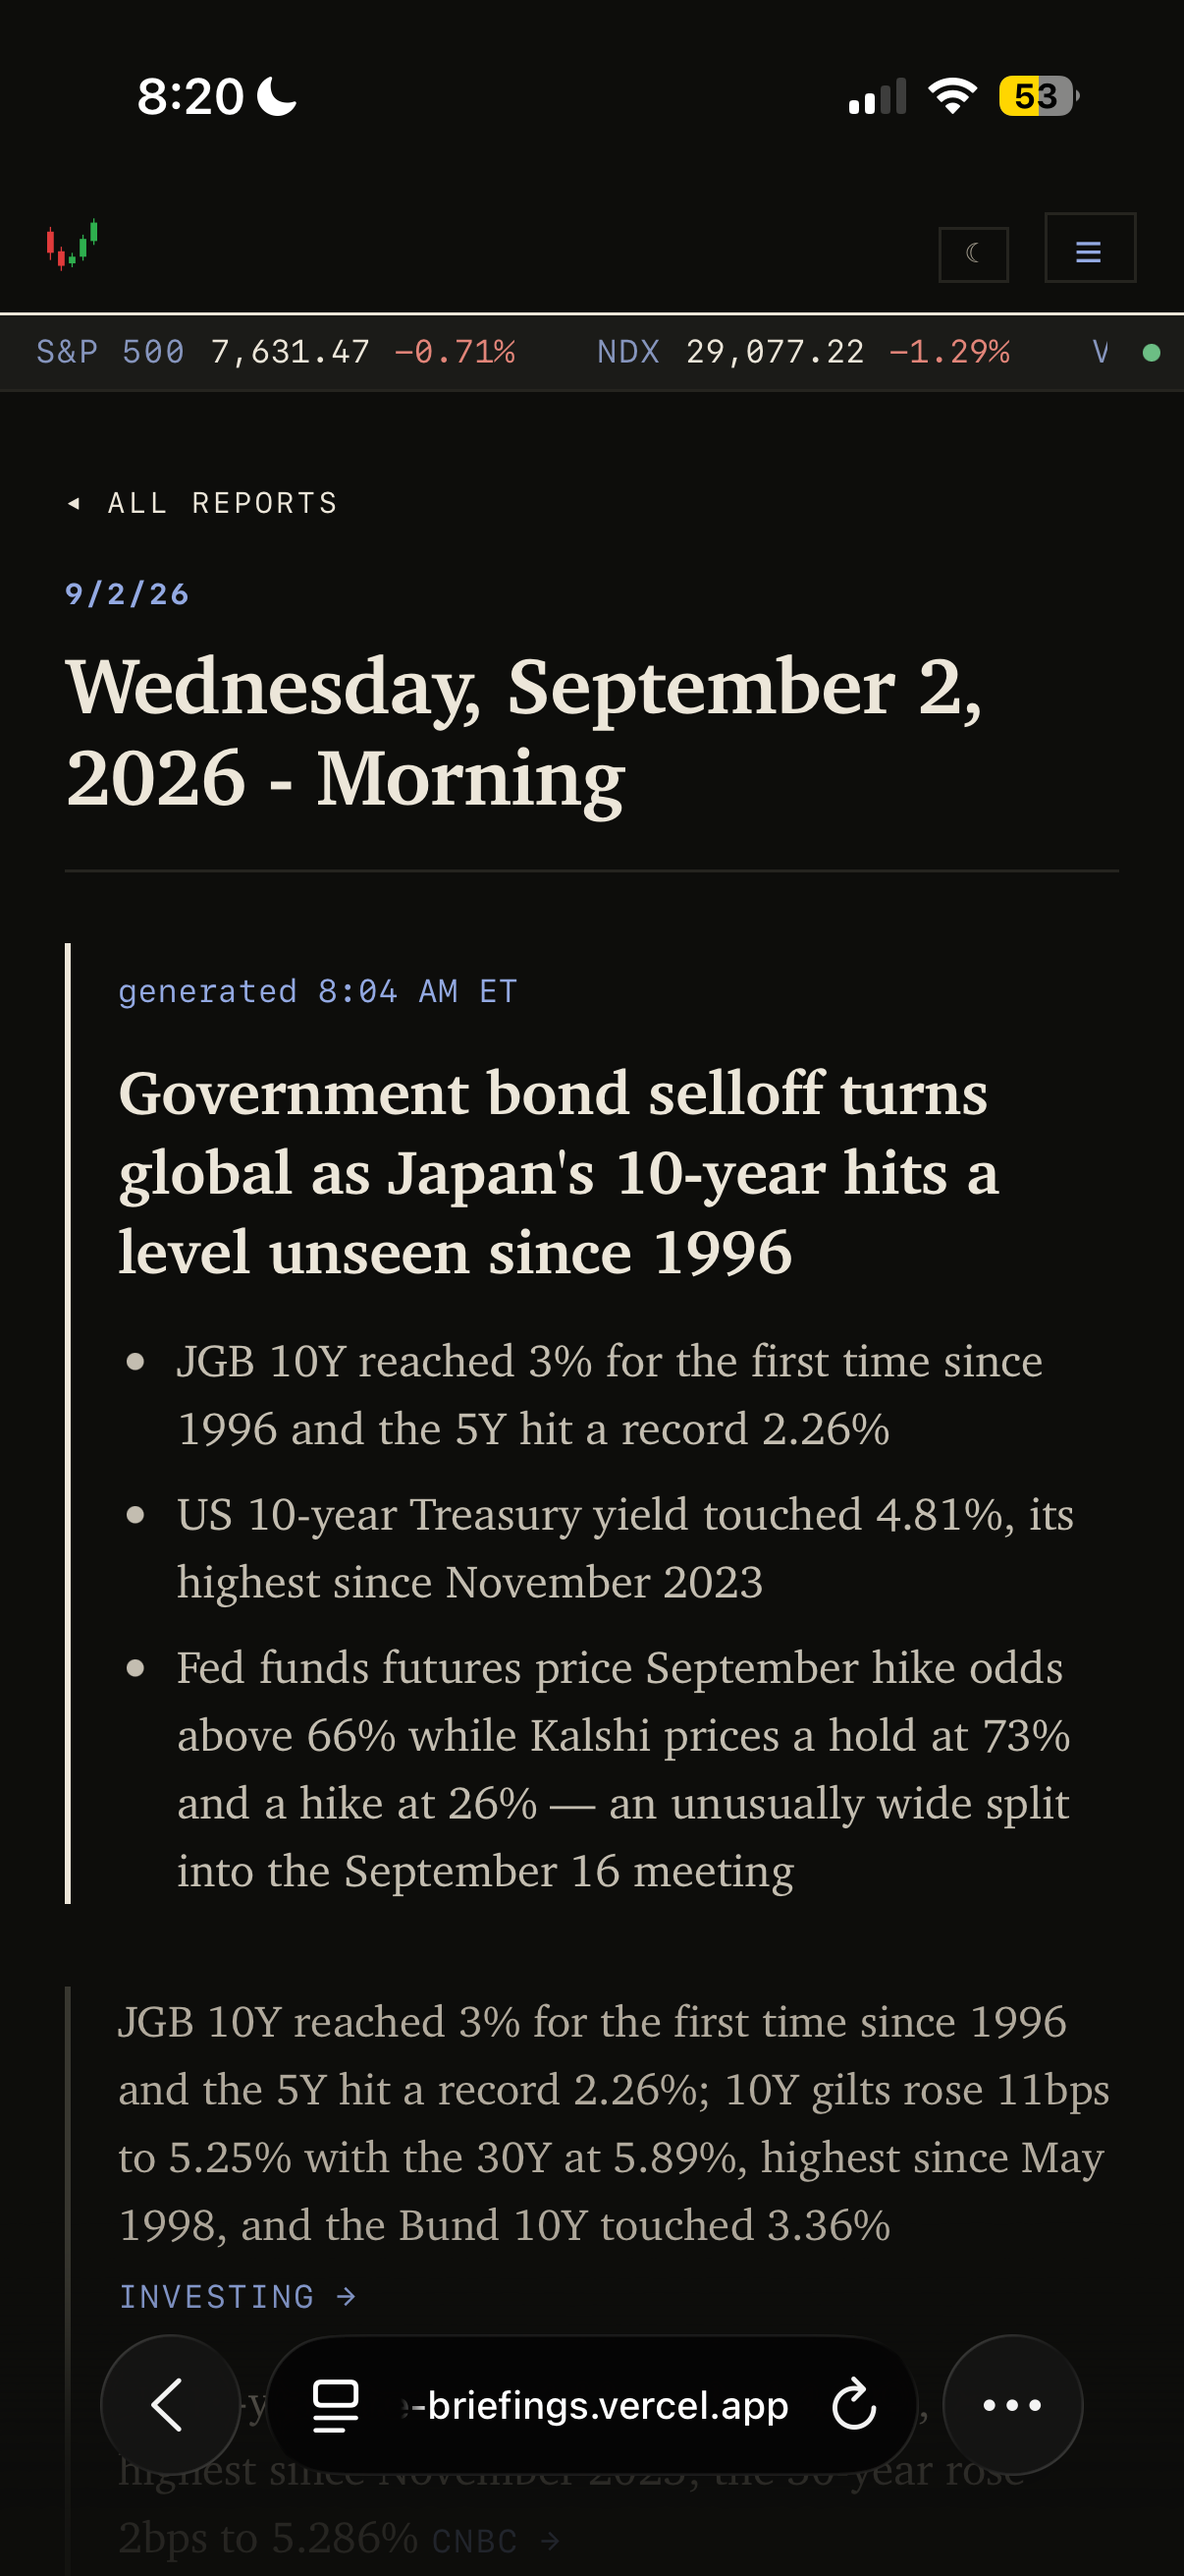
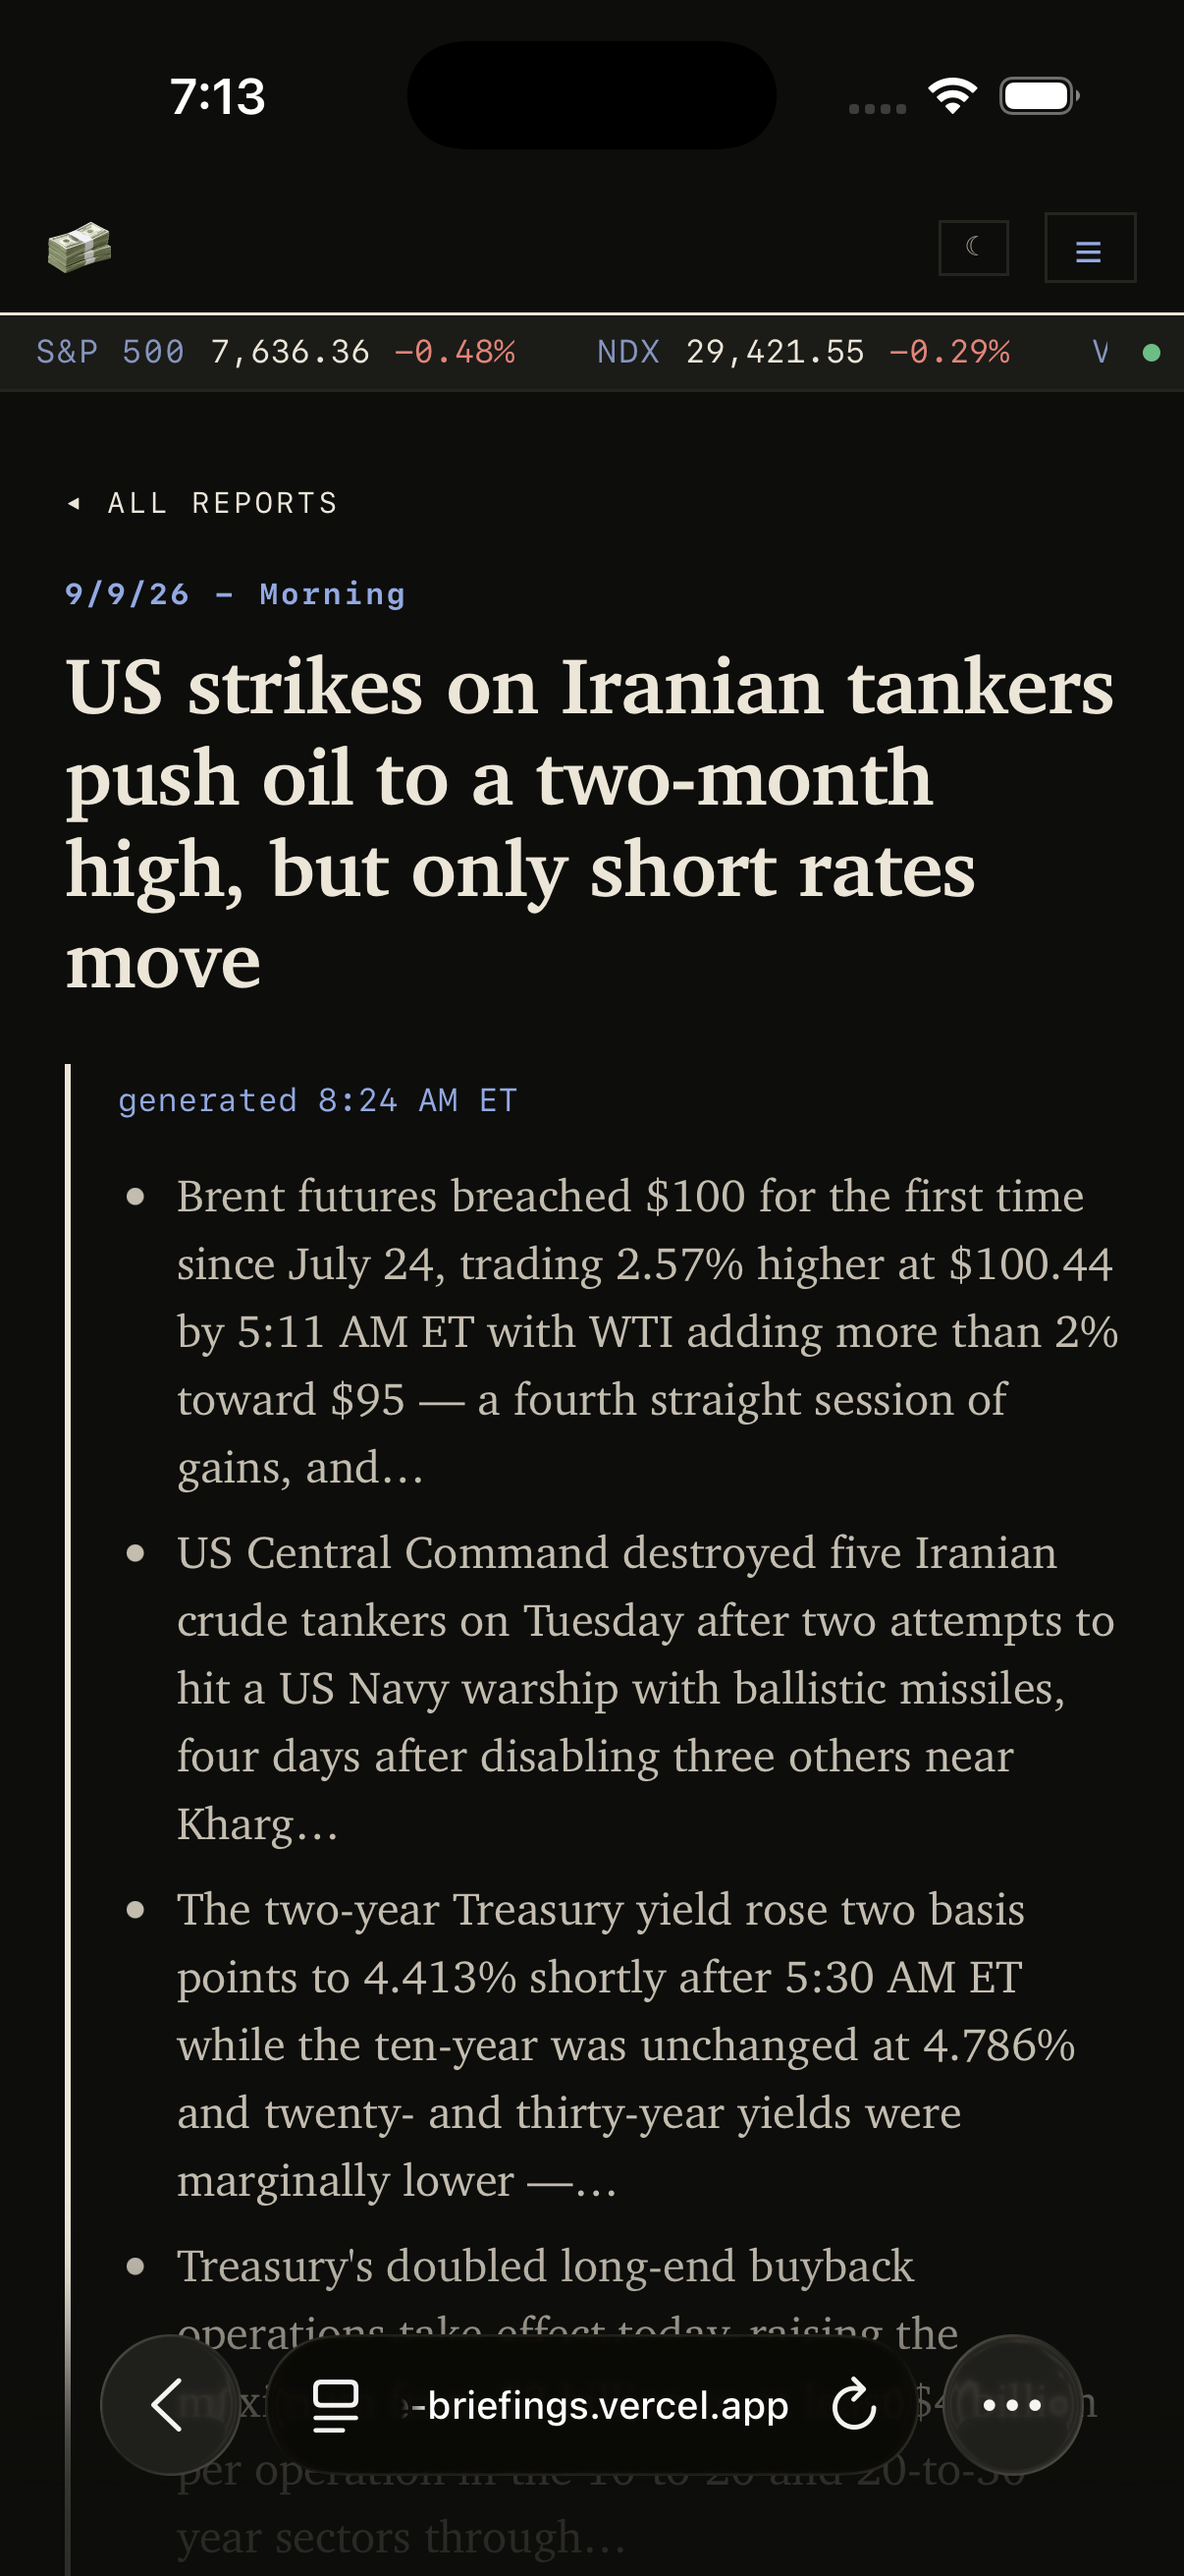
Update Buy Side mobile screenshots and add full-read body and pre-open table shots
Refresh the Today and full-read phone captures for the current report,
add a second row with the full-read body and the pre-open table, point
the instructions-file link at the deploy branch, mark Loot Check as
ongoing, and prune resolved notes from site.ts.

Claude-Session: https://claude.ai/code/session_015oZ65Lf5jxsvAkbP59EZJe

diff --git a/src/data/case-studies.ts b/src/data/case-studies.ts
@@ -133,7 +133,7 @@ export const caseStudies: Record<string, CaseStudy> = {
   "loot-check": {
     title: "Loot Check",
     appStore: "https://apps.apple.com/us/app/loot-check/id6785767104",
-    date: "June - September 2026",
+    date: "June 2026 - ",
     role: "Product Design, iOS Development",
     scope: "Live on the App Store",
     blocks: [
@@ -298,7 +298,6 @@ export const caseStudies: Record<string, CaseStudy> = {
           },
         ],
       },
-
 
 
       // Adding a web search for scans tripled total latency, increasing response times from ~6s to ~19s. I implemented a 30s timeout to prevent long scans and displayed the estimated wait time on the loading screen."
@@ -524,15 +523,10 @@ export const caseStudies: Record<string, CaseStudy> = {
 
 
       },
-        {
-          type: "heading",
-          text: "Solution",
-          note: "",
-        },
+  
         // live captions only
  
           //"Apple Vision reads the screen",
-          //"Apple Speech transcribes audio",
           //"DeepL translates the text",
 
 
@@ -656,7 +650,7 @@ export const caseStudies: Record<string, CaseStudy> = {
 
       {
         type: "text",
-        text: "The core design work is in the [instructions file](https://github.com/jkleejr/buy-side-briefings/blob/main/prompts/markets-website.md) in the repository. The file behaves as a living design system because every adjustment changes future reports. The agent writes the report following the rules and schema I gave it. It never fabricates information and always cites sources."
+        text: "The core design work is in the [instructions file](https://github.com/jkleejr/buy-side-briefings/blob/deploy/prompts/markets-website.md) in the repository. The file behaves as a living design system because every adjustment changes future reports. The agent writes the report following the rules and schema I gave it. It never fabricates information and always cites sources."
       },
 
 
@@ -778,15 +772,31 @@ export const caseStudies: Record<string, CaseStudy> = {
       {
         type: "images",
         columns: 2,
-        max: 700,
+        max: 650,
         items: [
           {
             src: "/projects/buy-side-mobile-today.png",
-            alt: "The Today page on a phone: the ticker strip under the nav, the date with an AM/PM toggle set to AM, the morning report's headline on a government bond selloff turning global as Japan's 10-year hits a level unseen since 1996, its opening paragraph, a link to the seven minute read, and the charts panel starting below",
+            alt: "The Today page on a phone: the ticker strip under the nav, the date with an AM/PM toggle set to AM, the morning report's headline on US strikes on Iranian tankers pushing oil to a two-month high while only short rates move, its opening paragraph, a link to the six minute read, and the charts panel starting below",
           },
           {
             src: "/projects/buy-side-mobile-full-read.png",
-            alt: "The full read on a phone: a back link to all reports, the date as a heading, the time the report was generated, the headline, then three bulleted takeaways on the Japanese 10-year, the US Treasury yield and the split in September hike odds, with the body and its source citations below",
+            alt: "The full read on a phone: a back link to all reports, the date and Morning label, the headline, the time the report was generated, then bulleted takeaways on Brent breaching $100, US Central Command destroying five Iranian tankers, the two-year Treasury yield rising two basis points, and the Treasury's doubled long-end buybacks",
+          },
+        ],
+      },
+
+      {
+        type: "images",
+        columns: 2,
+        max: 650,
+        items: [
+          {
+            src: "/projects/buy-side-mobile-full-read-body.png",
+            alt: "Further down the full read on a phone: a CNBC source link, a collapsed row for three more sourced points, the Full Read label with a six minute estimate, an italic methodology note, then the first section heading on Brent clearing $100 with its body paragraph and underlined sourced bullets below",
+          },
+          {
+            src: "/projects/buy-side-mobile-pre-open-table.png",
+            alt: "The pre-open table on a phone for September 9, 2026: rows for Brent, WTI, the 2-year, 10-year and 30-year Treasuries, S&P 500, Nasdaq 100, Dow and Russell 2000 futures, gold, the dollar index, the VIX and bitcoin, each with its level, change and a short note, with the rows the report keys on highlighted in blue",
           },
         ],
       },

diff --git a/src/data/site.ts b/src/data/site.ts
@@ -23,26 +23,10 @@ export const site = {
 };
 
 /* 9.6.26
-no self intro
-nothing signals the cover image is a button
-clicking project title does nothing, only clicking the small square image shows the case study
-blackletter + clean font creates dissonance
-spacing feels awkward
-using #000 for background and #ffff causes visual halation?
-
-thumbnails dont show the product
-someone should be able to tell what they are from a glance
-
 
 project substance + raw ability - 8.5/10
 portfolio architecture + shell ux - 5/10
 case stydy storytelling + depth - 4/10
-
-
-
-screen translator (ios prototype) - unfinished but good project for Apple design engineer
-
-time with tree (live web) - finish or remove
 
 
 
@@ -61,12 +45,9 @@ brutalism
 neobrutlism
 
 
-
-prompting is 90%, design engineering is the 10%
 systems over linear prompts
 intuition for layouts
 
-the name shrinks while the cover image and rest of the text stays the same which makes it awk
 
 more like LLMs than AI
 
